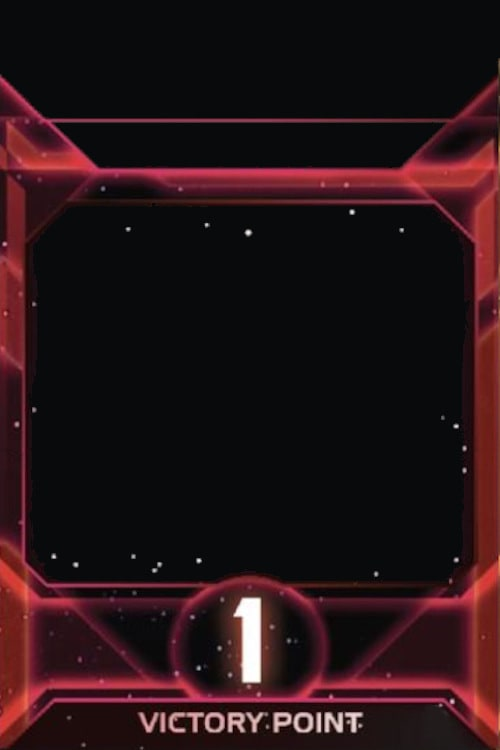
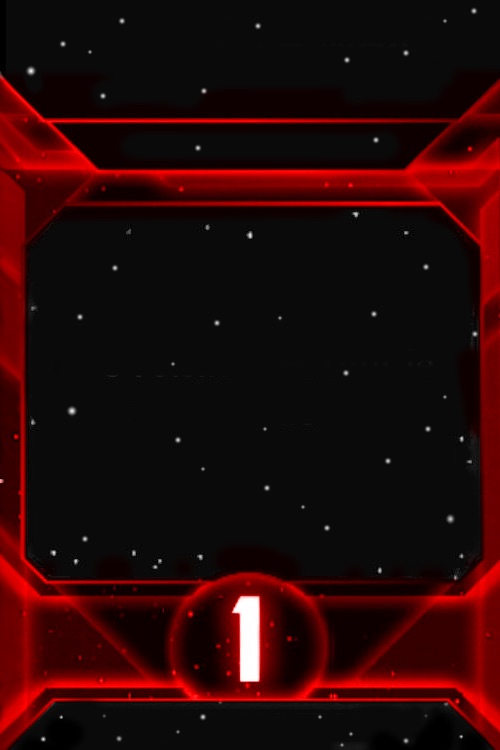
new card images, better word spacing

Changed region(s): [[0.0, 0.0613, 1.0, 1.0], [0.48, 0.3067, 0.51, 0.3373], [0.12, 0.5213, 0.15, 0.552]]

diff --git a/Kruft/ti4-card-images/static/card.html b/Kruft/ti4-card-images/static/card.html
@@ -59,6 +59,9 @@
                         <option value="yellow">Yellow</option>
                         <option value="red">Red</option>
                         <option value="green">Green</option>
+                        <option value="orange">Orange</option>
+                        <option value="pink">Pink</option>
+                        <option value="brown">Brown</option>
                     </select>
                 </li>
                 <li id="nobilityFooterBlock">

diff --git a/Kruft/ti4-card-images/main.py b/Kruft/ti4-card-images/main.py
@@ -200,7 +200,7 @@ def secretObjectiveCard(title, type, body, footer, cardImage, titlesize, fontsiz
     textBlock = TextBlock()
     textBlock.setFont(font)
     textBlock.setCenterH(True)
-    textBlock.setBounds(125, 130, 375, 160)
+    textBlock.setBounds(0, 130, CARD_W, 160)
     textBlock.setLineHeight(31)
     textBlock.setText(type)
     textBlock.draw(draw)
@@ -215,7 +215,7 @@ def secretObjectiveCard(title, type, body, footer, cardImage, titlesize, fontsiz
     textBlock.setOverride(FONT_3_WORDS, overrideFont)
     textBlock.setCenterH(True)
     textBlock.setCenterV(True)
-    textBlock.setBounds(25, 206, CARD_W - 25, 560)
+    textBlock.setBounds(42, 206, CARD_W - 42, 560)
     textBlock.setLineHeight(47 + fontsize)
     textBlock.setNewlineScale(PARAGRAPH_LINE_HEIGHT_SCALE)
     textBlock.setText(body)
@@ -229,7 +229,7 @@ def secretObjectiveCard(title, type, body, footer, cardImage, titlesize, fontsiz
     textBlock = TextBlock()
     textBlock.setFont(font)
     textBlock.setCenterH(True)
-    textBlock.setBounds(125, 705, 375, 740)
+    textBlock.setBounds(50, 705, 450, 740)
     textBlock.setLineHeight(30)
     textBlock.setText(footer)
     y, h = textBlock.draw(draw)
@@ -274,7 +274,7 @@ def publicObjectiveCard(level, title, type, body, footer, cardImage, titlesize, 
     textBlock = TextBlock()
     textBlock.setFont(font)
     textBlock.setCenterH(True)
-    textBlock.setBounds(125, 130, 375, 160)
+    textBlock.setBounds(0, 130, CARD_W, 160)
     textBlock.setLineHeight(31)
     textBlock.setText(type)
     textBlock.draw(draw)
@@ -303,7 +303,7 @@ def publicObjectiveCard(level, title, type, body, footer, cardImage, titlesize, 
     textBlock = TextBlock()
     textBlock.setFont(font)
     textBlock.setCenterH(True)
-    textBlock.setBounds(100, 705, 400, 740)
+    textBlock.setBounds(0, 705, CARD_W, 740)
     textBlock.setLineHeight(32)
     textBlock.setText(footer)
     y, h = textBlock.draw(draw)
@@ -340,7 +340,7 @@ def agendaCard(title, type, body, cardImage, titlesize, fontsize):
     textBlock = TextBlock()
     textBlock.setFont(font)
     textBlock.setCenterH(True)
-    textBlock.setBounds(150, 160, 350, 190)
+    textBlock.setBounds(0, 160, CARD_W, 190)
     textBlock.setLineHeight(31)
     textBlock.setText(type)
     textBlock.draw(draw)
@@ -372,7 +372,7 @@ def agendaCard(title, type, body, cardImage, titlesize, fontsize):
 
     electFr = unicode('Élisez ', 'utf-8')
     if ('Elect ' in body) or (electFr in body):
-        boldFont = FontData('MyriadProSemibold.otf', 28 + fontsize, (0, 0, 0, 255))
+        boldFont = FontData('MyriadProBold.ttf', 28 + fontsize, (0, 0, 0, 255))
         for line in filter(None, body.split('\n')):
             textBlock = TextBlock()
             textBlock.setCenterH(True)
@@ -464,7 +464,7 @@ def nobilityCard(color, title, type, body, footer, points, titlesize, fontsize):
     textBlock = TextBlock()
     textBlock.setFont(font)
     textBlock.setCenterH(True)
-    textBlock.setBounds(125, 130, 375, 160)
+    textBlock.setBounds(50, 130, 450, 160)
     textBlock.setLineHeight(31)
     textBlock.setText(type)
     textBlock.draw(draw)
@@ -606,7 +606,7 @@ class CardHandler(webapp2.RequestHandler):
         hash.update(points.encode('utf-8'))
         hash.update(titlesize.encode('utf-8'))
         hash.update(fontsize.encode('utf-8'))
-        hash.update('version9')
+        hash.update('version14')
         key = hash.hexdigest().lower()
 
         cardOptions = CARD_OPTIONS[card]
@@ -694,11 +694,12 @@ class getAgendaHandler(webapp2.RequestHandler):
 
         body = ''
         if len(elect) > 1:
-            body += 'Elect '
-            body += elect + '\n'
             if len(againstText) > 1:
+                body = elect + '\n'
                 body += 'For: ' + forText + '\nAgainst: ' + againstText
             else:
+                body += 'Elect '
+                body += elect + '\n'
                 body += forText
         else:
             if len(againstText) > 1:
@@ -950,12 +951,37 @@ class Proxy(webapp2.RequestHandler):
         self.response.headers['Content-Type'] = 'image/jpeg'
         self.response.out.write(jpg)
 
+class RecolorPromissory(webapp2.RequestHandler):
+    def get(self):
+        # Pink: ff69b4
+        # Orange: ff5e13
+        # Brown: 663300
+        color = self.request.get('color', 'ffffff')
+        color = ImageColor.getrgb('#' + color)
+        img = getImage('Promissory_White.jpg')
+        w, h = img.size
+        pixels = img.load()
+        for x in range(0, w):
+            for y in range(0, h):
+                (r, g, b) = pixels[x, y]
+                u = float(r + g + b) / (255 * 3)
+                if u > 0.08 and u < 0.5:
+                    u = u * 2.5
+                    r = min(int(color[0] * u), 255)
+                    g = min(int(color[1] * u), 255)
+                    b = min(int(color[2] * u), 255)
+                pixels[x, y] = (r, g, b)
+        jpg = imageToJPEG(img)
+        self.response.headers['Content-Type'] = 'image/jpeg'
+        self.response.out.write(jpg)
+
 app = webapp2.WSGIApplication([
     ('/img', CardHandler),
     ('/back', BackHandler),
     ('/tech', TechHandler),
-    #('/getaction', getActionHandler),
-    #('/getagenda', getAgendaHandler),
+    ('/getaction', getActionHandler),
+    ('/getagenda', getAgendaHandler),
+    #('/getpromissory', getPromissoryHandler),
     #('/testaction', TestActionHandler),
     #('/testsecret', TestSecretHandler),
     #('/testpublic', TestPublicHandler),
@@ -965,7 +991,8 @@ app = webapp2.WSGIApplication([
     #('/mutatefaction', MutateFactionTokens),
     #('/radialdither', RadialDither),
     #('/4k', FourK),
-    #('/cardsheet', CardSheet),
-    #('/proxy', Proxy),
+    ('/cardsheet', CardSheet),
+    ('/proxy', Proxy),
+    ('/recolorPromissory', RecolorPromissory),
 
 ], debug=False)

diff --git a/Kruft/ti4-card-images/textLayout.py b/Kruft/ti4-card-images/textLayout.py
@@ -67,6 +67,8 @@ class WordData:
         return self._width
 
     def draw(self, imageDraw, x, y, lineH):
+        #word = self._word.encode('utf-8')
+        #print('TEXT_LAYOUT: ADDING "' + word + '", width=' + str(self._width) + ' at x=' + str(x))
         if not self._word.isspace():
             self._fontData.draw(self._word, imageDraw, x, y, lineH)
 
@@ -98,9 +100,25 @@ class LineData:
 
     def draw(self, imageDraw, x, y, lineH):
         x += self._indent
+        prevWord = False
+        gather = ''
         for word in self._words:
-            word.draw(imageDraw, x, y, lineH)
-            x += word.width()
+            if word._word == '\n':
+                prevWord._fontData.draw(gather, imageDraw, x, y, lineH)
+                x += prevWord._fontData.width(gather)
+                prevWord = False
+                gather = ''
+            elif (not prevWord) or (word._fontData == prevWord._fontData):
+                prevWord = word
+                gather += word._word
+            else:
+                prevWord._fontData.draw(gather, imageDraw, x, y, lineH)
+                x += prevWord._fontData.width(gather)
+                prevWord = word
+                gather = word._word
+        if prevWord:
+            prevWord._fontData.draw(gather, imageDraw, x, y, lineH)
+            x += prevWord._fontData.width(gather)
 
     def addWord(self, wordData):
         assert wordData._type == 'WordData'
@@ -179,22 +197,43 @@ class Format:
         assert(lineData._type == 'LineData')
         currentLine = LineData(0)
         result = [ currentLine ]
+
+        # Make groups to prevent wrapping between word and punctuation.
+        currentGroup = []
+        wordDataGroups = [ currentGroup ]
         for wordData in lineData.getWords():
+            text = wordData.getWord()
+            if text.isspace() or text == '\n':
+                wordDataGroups.append([ wordData ])
+                currentGroup = []
+                wordDataGroups.append(currentGroup)
+            else:
+                currentGroup.append(wordData)
+
+        for wordDataGroup in wordDataGroups:
+            width = 0
+            isNewline = False
+            for wordData in wordDataGroup:
+                width += wordData.width()
+                isNewline = isNewline or wordData.getWord() == '\n'
+
             # Always add the first word, even if it exceeds max width.
-            overflow = currentLine.width() + wordData.width() > maxWidth
-            isNewline = wordData.getWord() == '\n'
+            overflow = currentLine.width() + width > maxWidth
             if isNewline:
                 # Add to current, THEN start a new line.
-                currentLine.addWord(wordData)
+                for wordData in wordDataGroup:
+                    currentLine.addWord(wordData)
                 currentLine = LineData(indent)
                 result.append(currentLine)
             elif overflow and not currentLine.isEmpty():
                 # Start a new line, add to next line.
                 currentLine = LineData(indent)
                 result.append(currentLine)
-                currentLine.addWord(wordData)
+                for wordData in wordDataGroup:
+                    currentLine.addWord(wordData)
             else:
-                currentLine.addWord(wordData)
+                for wordData in wordDataGroup:
+                    currentLine.addWord(wordData)
 
         # Remove spaces at the start or end of lines.
         for line in result:
